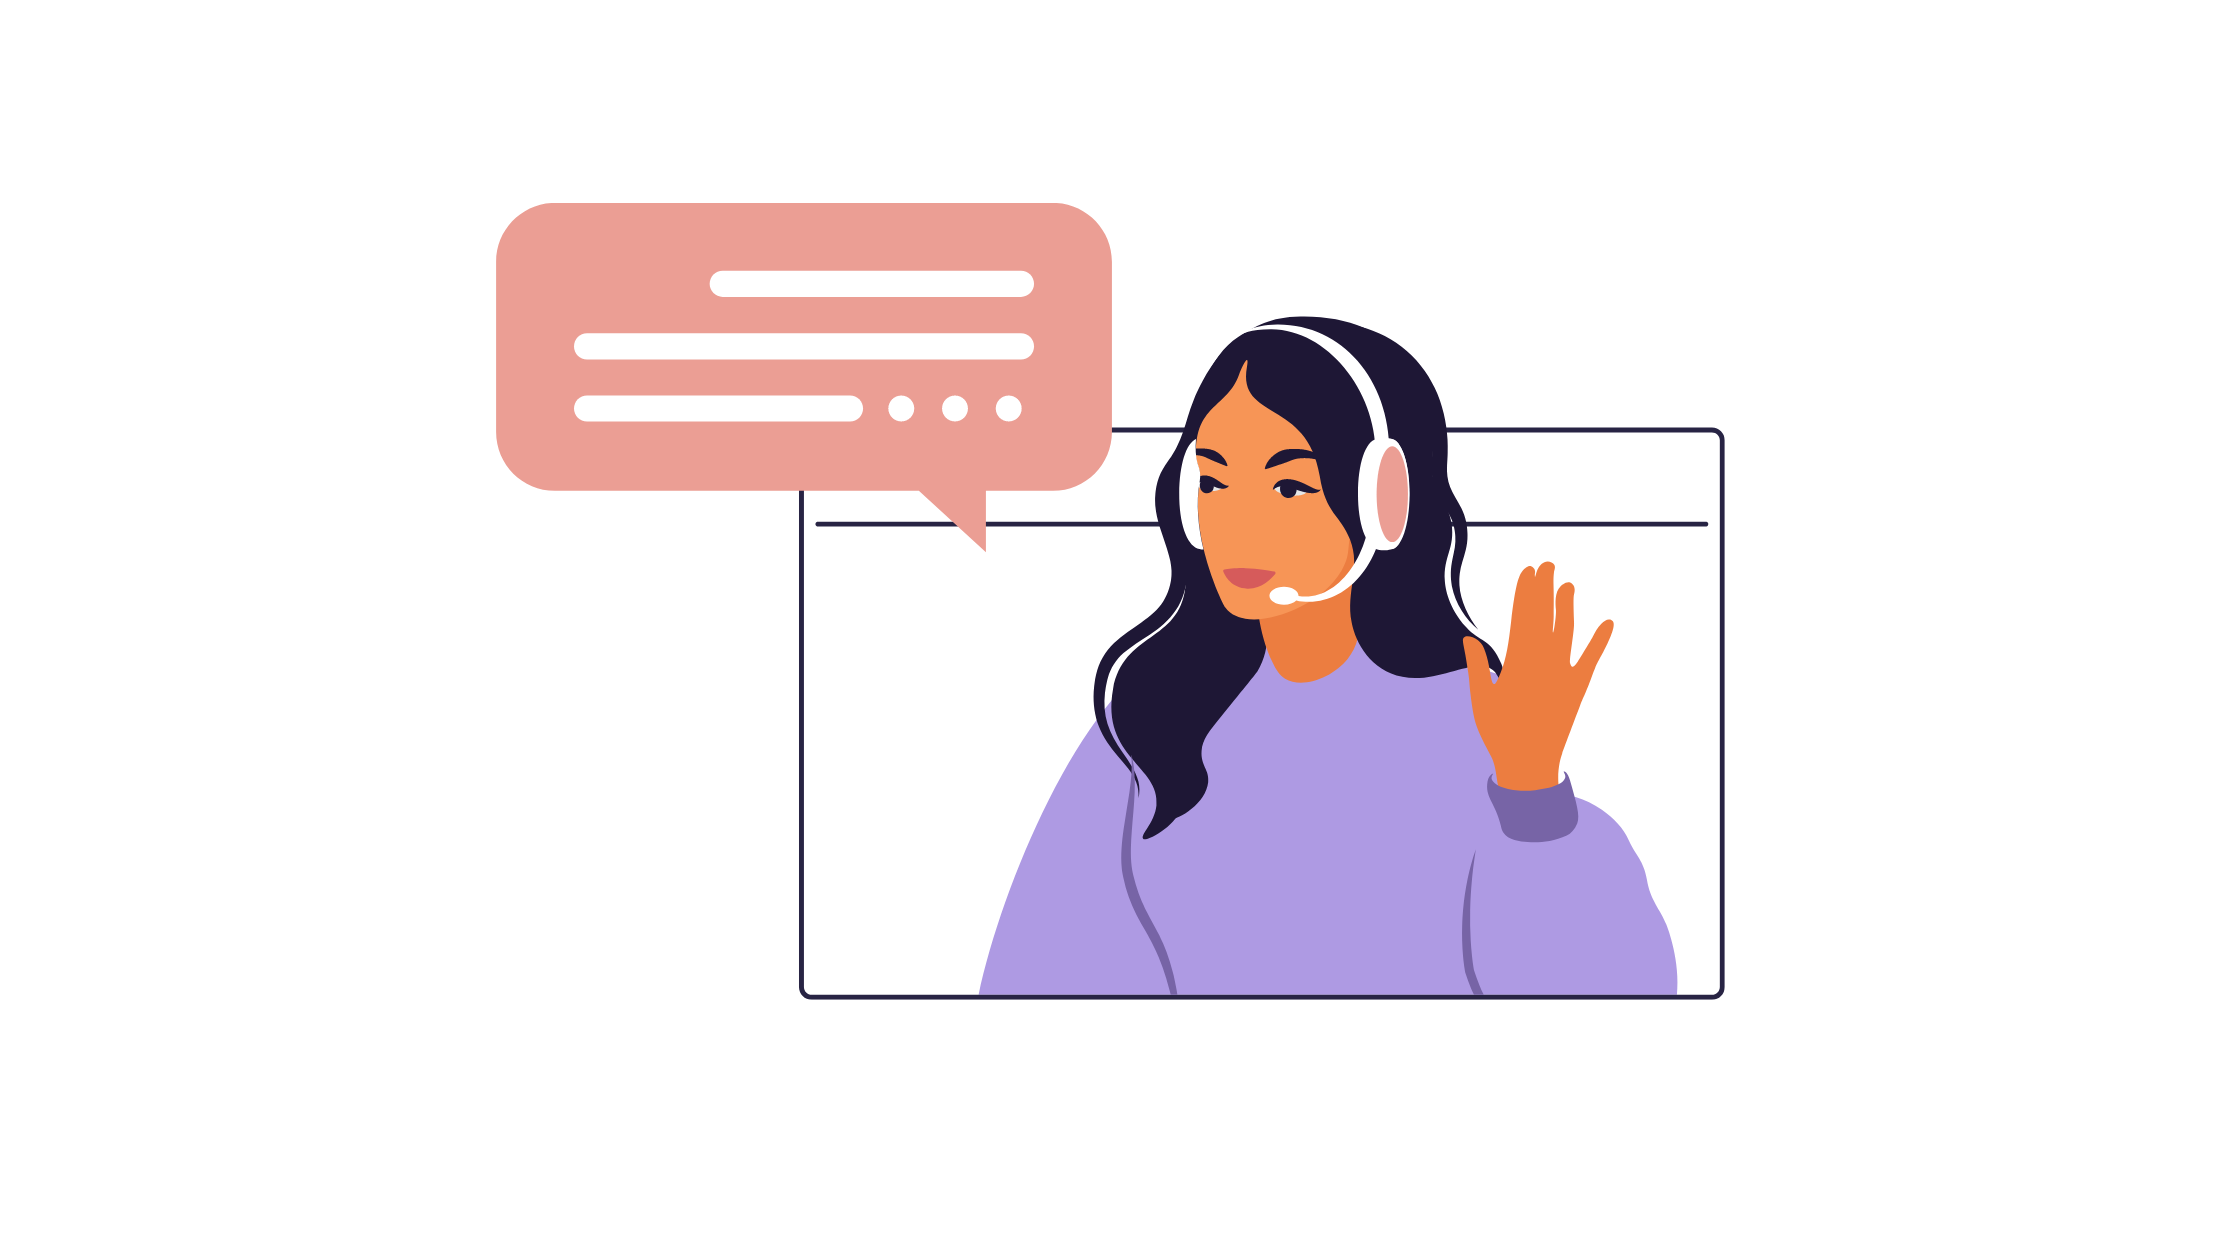
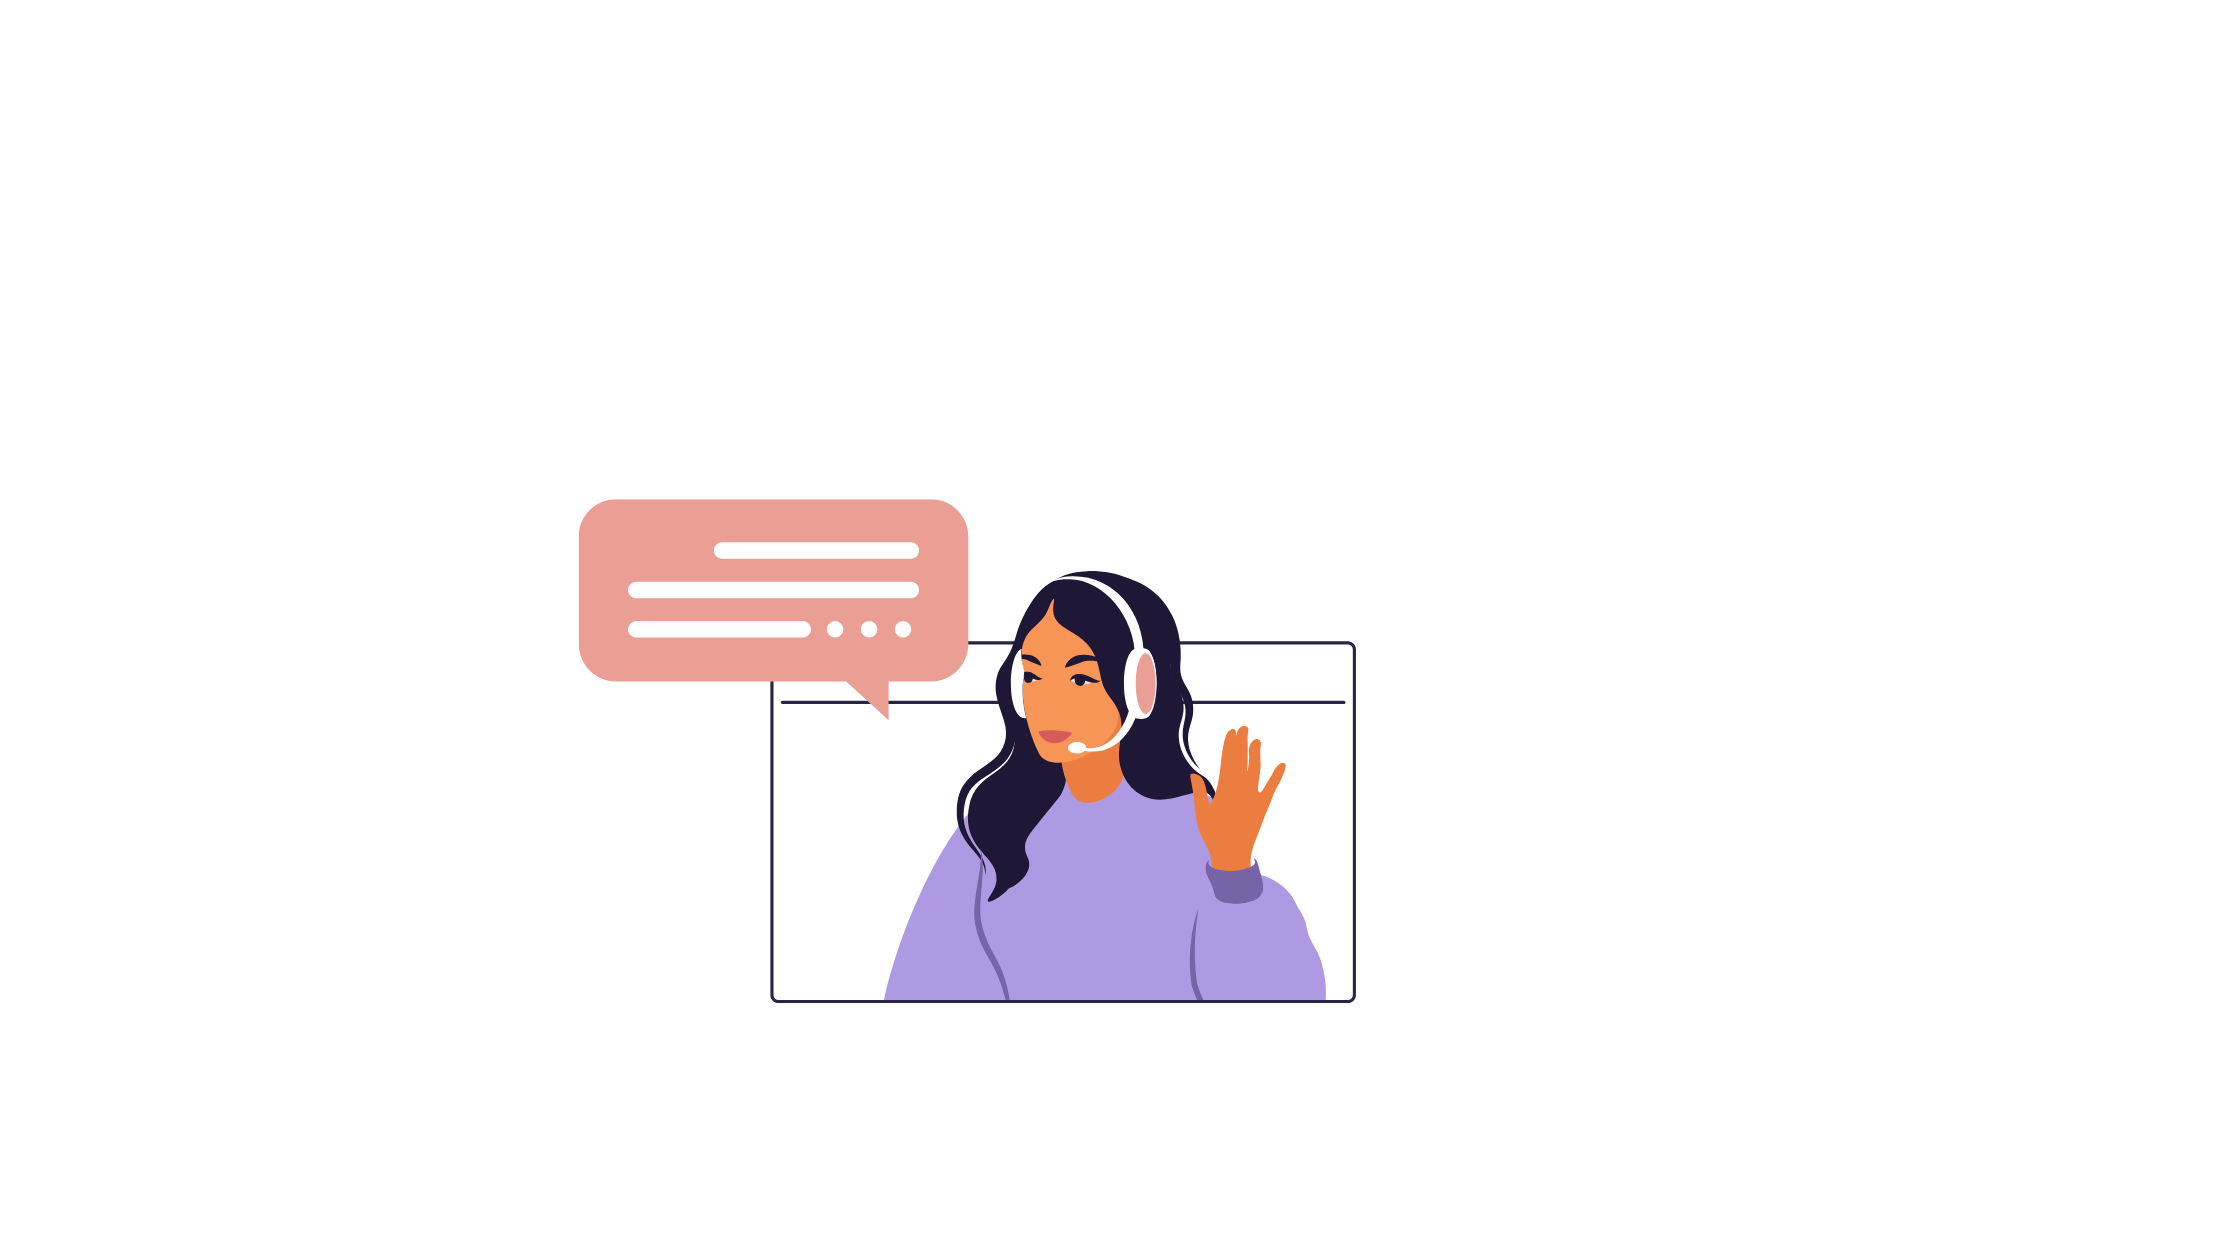
contact page design

Changed region(s): [[0.2188, 0.1548, 0.7812, 0.8048]]

diff --git a/react-portfolio/src/components/Contact/index.scss b/react-portfolio/src/components/Contact/index.scss
@@ -35,7 +35,11 @@
   input[type='email'] {
     width: 100%;
     border: 0;
-    background: #115173;
+    background: linear-gradient(
+      90deg,
+      rgba(0, 102, 255, 0.7819502801120448) 35%,
+      rgba(16, 169, 157, 0.7987570028011204) 100%
+    );
     height: 50px;
     font-size: 16px;
     color: #fff;
@@ -45,7 +49,11 @@
   textarea {
     width: 100%;
     border: 0;
-    background: #115173;
+    background: linear-gradient(
+      90deg,
+      rgba(0, 102, 255, 0.7819502801120448) 35%,
+      rgba(16, 169, 157, 0.7987570028011204) 100%
+    );
     height: 50px;
     font-size: 16px;
     color: #fff;
@@ -68,5 +76,28 @@
     float: right;
     text-align: center;
     margin-right: 10px;
+  }
+}
+
+.img-container {
+  z-index: 0;
+  width: 400px;
+  height: 400px;
+  position: absolute;
+  top: 0;
+  right: 15%;
+  bottom: 0;
+  left: auto;
+  margin: auto;
+  .solid-image {
+    position: absolute;
+    top: auto;
+    right: auto;
+    bottom: auto;
+    left: 0;
+    margin: auto;
+    width: 800px;
+    z-index: 1;
+    animation: fadeIn 1s 1.7s backwards;
   }
 }

diff --git a/react-portfolio/src/components/Contact/index.js b/react-portfolio/src/components/Contact/index.js
@@ -4,6 +4,8 @@ import './../Contact/index.scss'
 import { useEffect, useRef, useState } from 'react'
 import emailjs from '@emailjs/browser'
 
+import ContactImage from './../../assets/images/contact1.png'
+
 const Contact = () => {
   const [letterClass, setLetterClass] = useState('text-animate')
   const refForm = useRef()
@@ -94,7 +96,9 @@ const Contact = () => {
           </div>
         </div>
       </div>
-      <Loader type="pacman" />
+      <div className="img-container">
+        <img src={ContactImage} alt="contact" className="solid-image" />
+      </div>
     </>
   )
 }
